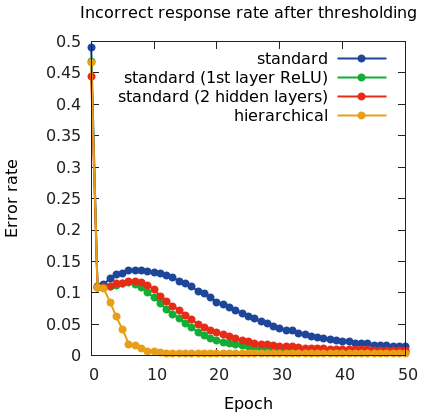
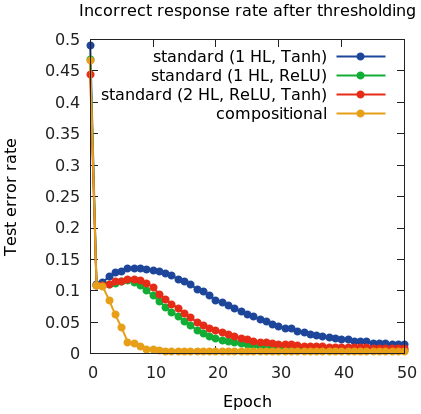
Updated with compositional, fixed some grammar

diff --git a/writing/contemp_NN_models_abstract.tex b/writing/contemp_NN_models_abstract.tex
@@ -15,8 +15,8 @@
 \endgroup
 \vspace{10pt}
 The end-to-end training on large data sets that is customary for neural networks is very unlike the way that adult humans learn tasks. Humans can learn rapidly from few examples. In part, this is likely because humans can be taught to break problems down into smaller parts, and can utilize previously learned concepts. Previous work has shown that to learn very difficult tasks in neural networks, it is sometimes necessary to teach intermediate steps of the task (G{\"{u}l\c{c}ehre \& Bengio, 2013). Here, we suggest that even if a task is easily learnable in general, the technique of teaching intermediate steps to the network can lead to much better performance on sparse data sets, and faster learning on larger data sets.\par
-We demonstrate this by teaching networks the rules to Conway's Game of Life: For a square surrounded by eight neighboring squares, a square with four live neighbors dies from overcrowding, and one with fewer than two live neighbors dies of loneliness. A living square with two or three live neighbors lives, and a dead square with three live neighbors becomes alive. Calculating the life of a square under these rules can be decomposed into two separate steps: First, evaluating the current life of a unit and the number of its living neighbors, and second, computing its life at the subsequent time-step from these extracted features. This can be seen as a task of learning a mapping from 3 x 3 binary arrays (representing the current state) to a single binary value (representing the life of the central unit at the next time step). Since there are 512 possible input arrays, we trained on $n$ of them (randomly selected), and tested on the held out $512-n$, while varying $n$. We trained what we call a ``compositional'' network by training a single-layer (ReLU) network to extract number of neighbors and life of the central square from the input, and simultaneously training a single hidden-layer (tanh) network to compute the life value at the next time step from these extracted features. (We trained the second network off the output values produced by the first, training off the perfect values did not significantly alter the results.) We compared this compositional network to a variety of standard neural networks (two hidden layers, first ReLU, second tanh, to imitate the structure of the hierarchical, and then two networks with one of the two hidden layers removed). These were trained with standard procedures to map the input directly to the output. (See Figure \ref{networkdiagram} for a comparison of our network to the two hidden layer standard network.)\par
-We demonstrated that the compositional network is able to learn from much sparser datasets than the standard networks. (See Figure \ref{n64figure} for a plot of error rate, averaged across 100 training sets, each with $n = 64$ training examples. The average error rates do not quite reach zero because with $n = 64$, even the compositional network was not always successful at learning the task.) Furthermore, even with datasets sufficient for the standard networks to learn, the compositional networks learned the task much more rapidly (see Figure \ref{n256figure}). We conclude that learning explicit compositions of subtasks can offer benefits for sparse learning, and for rapid learning even on large data sets, likely by constraining the solution space which must be searched. These training approaches may lead to more human-like learning from neural networks.
+We demonstrate this by teaching networks the rules to Conway's Game of Life: For a square surrounded by eight neighboring squares, a square with four live neighbors dies from overcrowding, and one with fewer than two live neighbors dies of loneliness. A living square with two or three live neighbors lives, and a dead square with three live neighbors becomes alive. Calculating the life of a square under these rules can be decomposed into two separate steps: First, evaluating the current life of a unit and the number of its living neighbors, and second, computing its life at the subsequent time-step from these extracted features. This can be seen as a task of learning a mapping from 3 x 3 binary arrays (representing the current state) to a single binary value (representing the life of the central unit at the next time step). Since there are 512 possible input arrays, we trained on $n$ of them (randomly selected), and tested on the held out $512-n$, while varying $n$. We trained what we call a ``compositional'' network by training a single-layer (ReLU) network to extract number of neighbors and life of the central square from the input, and simultaneously training a single hidden-layer (tanh) network to compute the life value at the next time step from these extracted features. (We trained the second network off the output values produced by the first; training off the perfect values did not significantly alter the results.) We compared this compositional network to a variety of standard neural networks (two hidden layers, first ReLU, second tanh, to imitate the structure of the compositional, and then two networks with one of these two hidden layers removed). These were trained with standard procedures to map the input directly to the output. (See Figure \ref{networkdiagram} for a comparison of our network to the two hidden layer standard network.)\par
+We demonstrated that the compositional network is able to learn from much sparser datasets than the standard networks. (See Figure \ref{n64figure} for a plot of error rate, averaged across 100 training sets, each with $n = 64$ training examples. Note that the average error rates do not quite reach zero; even the compositional network was not always successful at learning the task with $n = 64$.) Furthermore, even with datasets sufficient for the standard networks to learn, the compositional networks learned the task much more rapidly (see Figure \ref{n256figure}). We conclude that learning explicit compositions of subtasks can offer benefits for sparse learning, and for rapid learning even on large data sets, likely by constraining the solution space which must be searched. These training approaches may lead to more human-like learning from neural networks.
 \begin{figure}[H]
     \centering
     \begin{subfigure}[c]{0.35\textwidth}
